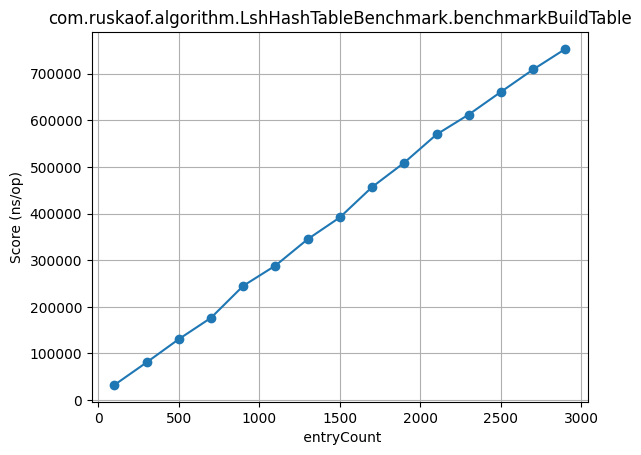
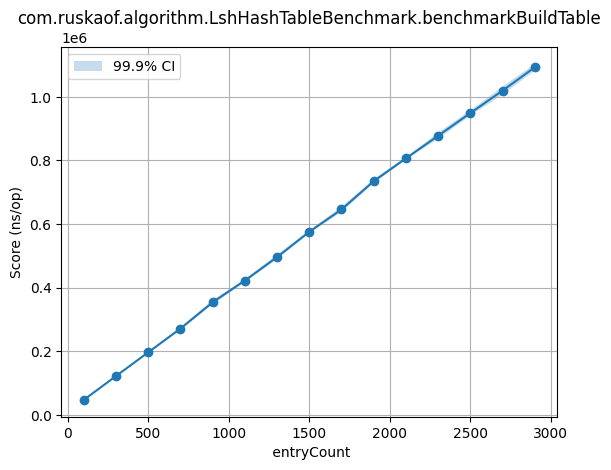
improve report

diff --git a/app/src/test/java/com/ruskaof/algorithm/PerfectHashBenchmark.java b/app/src/test/java/com/ruskaof/algorithm/PerfectHashBenchmark.java
@@ -27,8 +27,7 @@ import java.util.concurrent.TimeUnit;
 @Fork(3)
 public class PerfectHashBenchmark {
 
-    @Param({ "100", "300", "500", "700", "900", "1100", "1300", "1500", "1700", "1900", "2100", "2300", "2500", "2700",
-            "2900" })
+    @Param({ "2900" })
     public int entryCount;
 
     private static final int KEY_LENGTH = 16;

diff --git a/app/src/test/java/com/ruskaof/algorithm/ExtendibleHashTableBenchmark.java b/app/src/test/java/com/ruskaof/algorithm/ExtendibleHashTableBenchmark.java
@@ -28,7 +28,7 @@ import java.util.concurrent.TimeUnit;
 @Fork(3)
 public class ExtendibleHashTableBenchmark {
 
-    @Param({ "100", "300", "500", "700", "900", "1100", "1300", "1500", "1700", "1900", "2100", "2300" })
+    @Param({ "2300" })
     public int entryCount;
 
     private static final int KEY_LENGTH = 16;

diff --git a/app/src/test/java/com/ruskaof/algorithm/LshHashTableBenchmark.java b/app/src/test/java/com/ruskaof/algorithm/LshHashTableBenchmark.java
@@ -25,7 +25,7 @@ import java.util.concurrent.TimeUnit;
 @Fork(3)
 public class LshHashTableBenchmark {
 
-    @Param({"100", "300", "500", "700", "900", "1100", "1300", "1500", "1700", "1900", "2100", "2300", "2500", "2700", "2900"})
+    @Param({"2900"})
     public int entryCount;
 
     public int dimension = 16;

diff --git a/reports/report_hashes.md b/reports/report_hashes.md
@@ -1,0 +1,155 @@
+# Отчет по лаборатороной работе №1
+
+Студент: Русинов Дмитрий
+
+## Задание
+
+Необходимо реализовать три алгоритма (в скобках операции):
+
+1. хэш таблицу на файловой системе с бакетами как мы обсуждали на паре (вставка, обновление и удаление)
+2. perfect hash (создание полного индекса по фиксированному набору ключей и поиск)
+3. lsh для поиска дублей в текстах или точек в 3d (создание индекса, добавление новых точек, фулл скан для поиска дублей)
+
+По всем алгоритмам должны быть:
+1. тесты функциональности на случайных наборах данных (набор данных при тесте генерируется) - очень помогает ловить корнер-кейсы
+2. перфтесты на больших объемах данных - считаем пропускную способность и время операции
+3. профайлинг памяти и цпу всех реализаций с анализом узких мест и набором гипотез как можно сделать лучше
+
+
+## Выполнение
+
+Для реализации алгоритмов был использован язык программирования Java.
+
+- [Perfect Hash](../app/src/main/java/com/ruskaof/algorithm/PerfectHash.java)
+- [LSH Hash Table](../app/src/main/java/com/ruskaof/algorithm/LshHashTable.java)
+
+### Extendible Hash Table
+
+[Extendible Hash Table](../app/src/main/java/com/ruskaof/algorithm/ExtendibleHashTable.java)
+
+Для mmap использует `java.nio.channels.FileChannel`. Все операции синхронизируются с диском.
+
+#### Вставка
+
+Вставка амортизированно работает за O(1), что видно на графике.
+
+![Extendible Hash Table](../graphs/hashes/extendible_put_new.png)
+
+Профилирование CPU вставки:
+
+![Extendible Hash Table Put Prof](../graphs/hashes/extendible_put_prof.png)
+
+Почти все время тратится на флашинг операций в диск. Возможной оптимизацией могло бы стать батчевание флашей.
+
+Профилирование Memory вставки:
+
+![Extendible Hash Table Put Mem Prof](../graphs/hashes/extendible_put_mem.png)
+
+Все аллокации происходят только при созданиии бакета, не улучшить.
+
+#### Получение
+
+Алгоритмическая сложность получения - O(1), однако в бенчмарке мы можем видеть, что на самом деле время получения растет линейно с количеством записей в таблице. Это обуславливается ухудшением Cache locality. Больше записей -> больше бакетов -> хуже работает кеш ОС, чаще обращения в разные места
+
+![Extendible Hash Table Get](../graphs/hashes/extendible_get.png)
+
+Профилирование CPU получения:
+
+![Extendible Hash Table Get CPU](../graphs/hashes/extendible_get_prof.png)
+
+Все CPU уходит на работу с буфером и на сравнение ключей, его не улучшить.
+
+Профилирование Memory получения:
+
+![Extendible Hash Table Get CPU](../graphs/hashes/extendible_get_mem.png)
+
+Похоже, что наш код не производит никаких аллокаций. Только при работе с бакетом есть аллокации на get, но вероятнее всего все они связаны с работой с буфером mmap.
+
+### Pefrect Hash
+
+Используется классическая реализация с одной вложенной хеш таблицей:
+
+1. Пробуем собрать внутрении хеш таблицы вообще без коллизий, причем при их сборке выделяем им m^2 памяти, где m - количество ключей во вложенной хеш-таблице
+2. Проверяем, что суммарно вложенные хеш таблицы занимают не более 4*n памяти, где n - общее количество ключей. Если занимают больше, то пробуем новую хеш-функцию
+
+Статистически создание такой хеш таблицы будет проходить за около линейное время
+
+#### Создание
+
+Линейно зависит от количества ключей, как и предполагалось
+
+![](../graphs/hashes/perfect_build.png)
+
+Профилирование CPU создания:
+
+![](../graphs/hashes/perfect_build_prof.png)
+
+Почти все CPU уходит на вычисление хеш-функции и генерацию случайных чисел, что ожидаемо и нельзя улучшить
+
+Профилирование Memory создания:
+
+![](../graphs/hashes/perfect_build_mem.png)
+
+Все аллокации на внутренний `ArrayList` и работу с генерацией случайных чисел. Единственное возможное улучшение - использовать статический генератор, но количество его аллокаций и так не очень большое.
+
+#### Получение
+
+Алгоритмическая сложность - O(1), однако в бенчмарке заметная линейная зависимость. Предоложительно, опять влияние cache locality.
+
+![](../graphs/hashes/perfect_get.png)
+
+Профилирование CPU получения:
+
+![](../graphs/hashes/perfect_get_prof.png)
+
+Все CPU уходит на вычисление хеша
+
+Профилирование Memory получения:
+
+![](../graphs/hashes/perfect_get_mem.png)
+
+По сути, нет аллокаций вовсе
+
+### LSH
+
+Выполнена реализация, которая схожие точки в векторном пространстве складывает в общие бакеты. Хеш функции - плоскости, параллельные некоторой оси координат. Реализация предполагает любую размерность векторов.
+
+#### Добавление вектора
+
+Константное время от количества записей, которые уже есть в таблице
+
+![](../graphs/hashes/lsh_add.png)
+
+#### Создание
+
+Линейное время от количества записей, как и ожидалось
+
+![](../graphs/hashes/lsh_build.png)
+
+Профилирование CPU создания:
+
+![](../graphs/hashes/lsh_build_prof.png)
+
+Вычисление кастомной хеш функции и работа с внутренними коллекциями занимают все время
+
+Профилирование Memory создания:
+
+![](../graphs/hashes/perfect_build_mem.png)
+
+Из аллокаций в нашем коде - только генератор случайных чисел, больше ничего.
+
+#### Получение
+
+Операция получения из таблицы LSH в реализации - это получение `List<List<Integer>>`, то есть получение всех существующих бакетов и идентификаторов векторов в них.
+
+Работает за линейное время от количества записей, причем очень быстро, как и ожидалось.
+
+Профилирование CPU получения:
+
+![](../graphs/hashes/lsh_read_prof.png)
+
+Все время занимает итерирование и создание структур, которые мы хотим вернуть
+
+![](../graphs/hashes/lsh_read_mem.png)
+
+Все аллокации только под структуры, которые мы хотим вернуть
